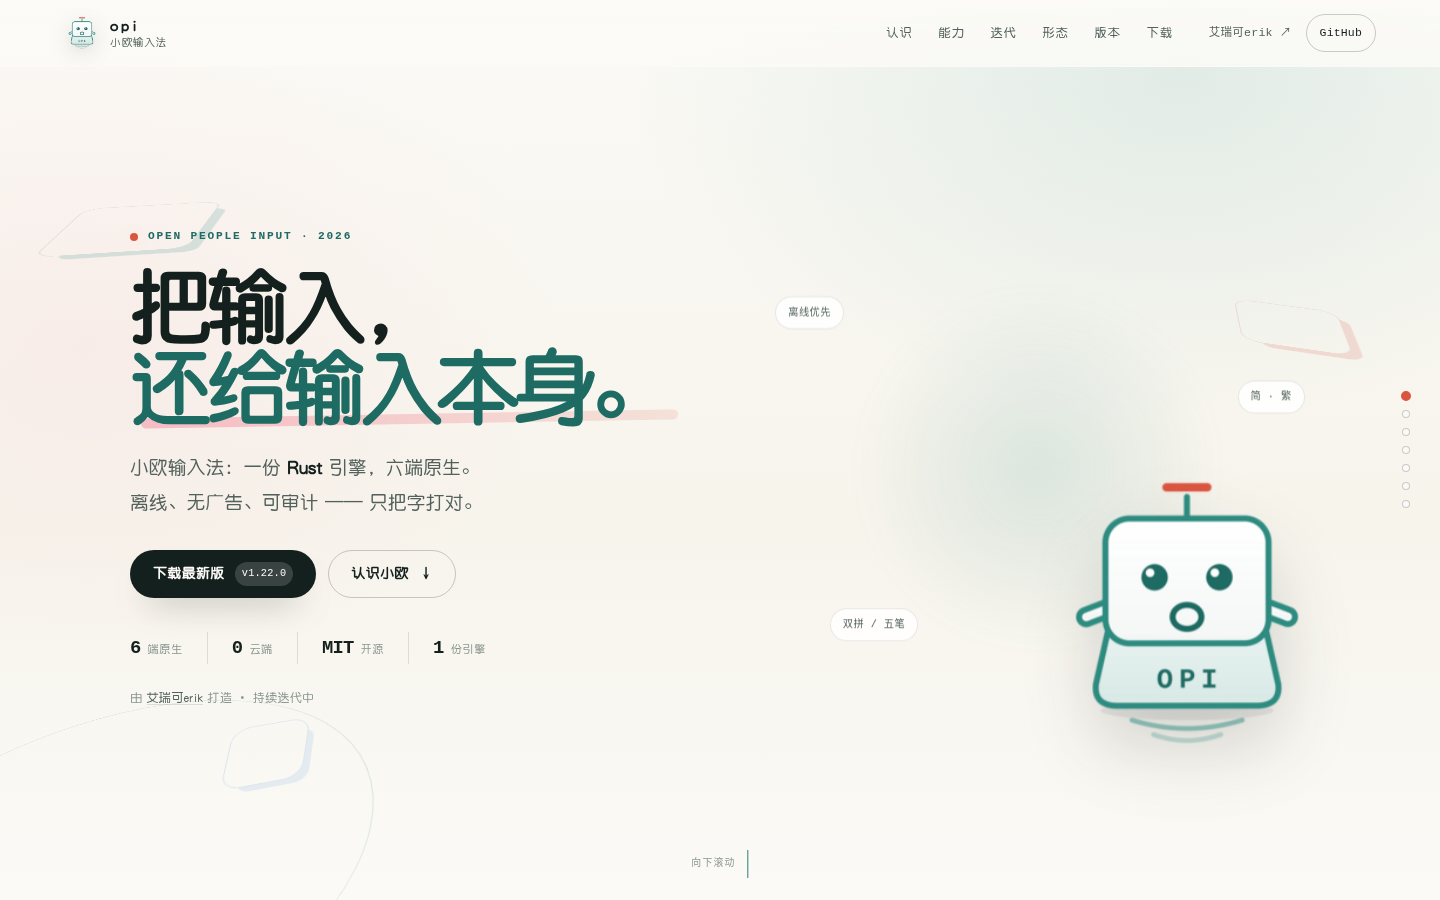
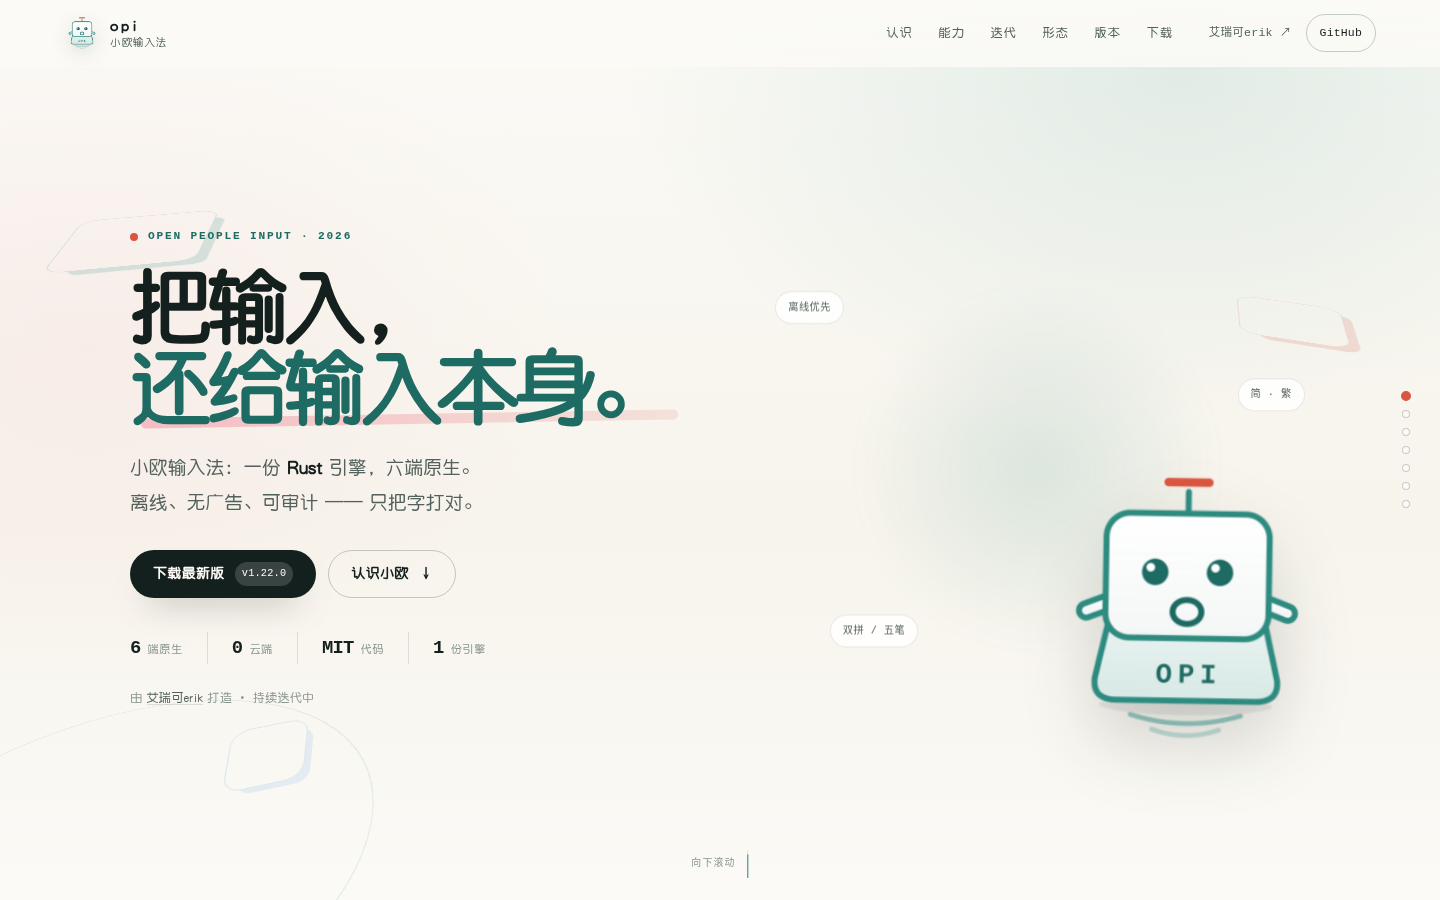
site: 按 README 补 Open/People/Input 定位与授权边界
- 关于区加入项目三词定位；明确云同步/账号/广告不做
- hero 的 MIT 标注为代码；页脚区分代码 MIT 与词库 GPL-3.0
- 页脚增加 English README 入口；能力区边界指向 README
- 预览图同步；320/390/768 复查无横向溢出

diff --git a/site/index.html b/site/index.html
@@ -60,7 +60,7 @@
           <ul class="hero-facts" aria-label="项目关键词">
             <li><b>6</b><span>端原生</span></li>
             <li><b>0</b><span>云端</span></li>
-            <li><b>MIT</b><span>开源</span></li>
+            <li><b>MIT</b><span>代码</span></li>
             <li><b>1</b><span>份引擎</span></li>
           </ul>
           <p class="hero-byline">由 <a href="https://erik.xyz" target="_blank" rel="noopener">艾瑞可erik</a> 打造 · 持续迭代中</p>
@@ -82,6 +82,7 @@
           <h2 id="about-title">一枚键帽，<br><em>为什么值得被认真对待？</em></h2>
           <p class="body-lg">小欧是 opi 的项目宠物，也是一枚<strong>键帽精灵</strong>。它长得就是键盘上的一颗键 —— 因为输入法本该如此，不必是别的东西。</p>
           <p class="body">身体是键帽，嘴是字母 <strong>O</strong>（Open），头顶是拼音声调 <strong>ˉ</strong>，侧壁刻着 <strong>opi</strong>，底部涟漪只在本机扩散。<br>这些不是装饰，是项目对「输入」这件事的态度。</p>
+          <p class="body"><strong>Open</strong> 开放可审计 · <strong>People</strong> 为人人设计 · <strong>Input</strong> 回归输入本质。云同步、账号与广告都不做。</p>
           <blockquote>始于不满，成于热爱。<cite>—— opi 项目缘起</cite></blockquote>
           <a class="text-link" href="assets/pet/opi-pet.svg" target="_blank" rel="noopener">看小欧的原始矢量稿 <span aria-hidden="true">↗</span></a>
         </div>
@@ -105,7 +106,7 @@
             <p class="eyebrow">02 / 能力</p>
             <h2 id="features-title">不是功能堆砌，<br><em>是把每一件小事做对。</em></h2>
           </div>
-          <p class="section-side">没有弹窗、没有账号、没有「猜你喜欢」。只有一条清晰的输入链路，和足够克制的工具。</p>
+          <p class="section-side">没有弹窗、没有账号、没有「猜你喜欢」。只有一条清晰的输入链路，和足够克制的工具；云同步已裁决不做，未做的边界以 README 为准。</p>
         </div>
         <div class="feature-grid">
           <article class="feature-card reveal">
@@ -412,13 +413,14 @@
               <a href="#forms">十二形态</a>
               <a href="#releases">版本日志</a>
               <a href="https://github.com/erikwang2013/opi" target="_blank" rel="noopener">GitHub</a>
+              <a href="https://github.com/erikwang2013/opi/blob/main/README.en.md" target="_blank" rel="noopener" hreflang="en">English</a>
               <a href="https://erik.xyz" target="_blank" rel="noopener">艾瑞可erik ↗</a>
             </nav>
           </div>
           <div class="footer-info" id="busuanzi"><script async src="//busuanzi.ibruce.info/busuanzi/2.3/busuanzi.pure.mini.js"></script><span id="busuanzi_container_site_pv">本站总访问量 <b id="busuanzi_value_site_pv">0</b> 次 👀</span><span class="dot">·</span><span id="busuanzi_container_site_uv">访客数 <b id="busuanzi_value_site_uv">0</b> 人次 🧑🚀</span></div>
           <div class="footer-bottom">
             <span>© <span id="year">2026</span> 艾瑞可erik</span>
-            <span>MIT License</span>
+            <span>代码 MIT · 词库 GPL-3.0</span>
             <span><a href="https://beian.miit.gov.cn" target="_blank" rel="noopener">粤ICP备2020136226号-5</a></span>
             <span>项目宠物与表情资产见 <a href="https://github.com/erikwang2013/opi/blob/main/ASSETS-LICENSE.md" target="_blank" rel="noopener">ASSETS-LICENSE</a></span>
           </div>
@@ -426,7 +428,6 @@
       </div>
     </section>
   </main>
-
   <nav class="section-dots" aria-label="页面章节">
     <a href="#hero" data-for="hero" aria-label="首页"></a>
     <a href="#about" data-for="about" aria-label="认识小欧"></a>
